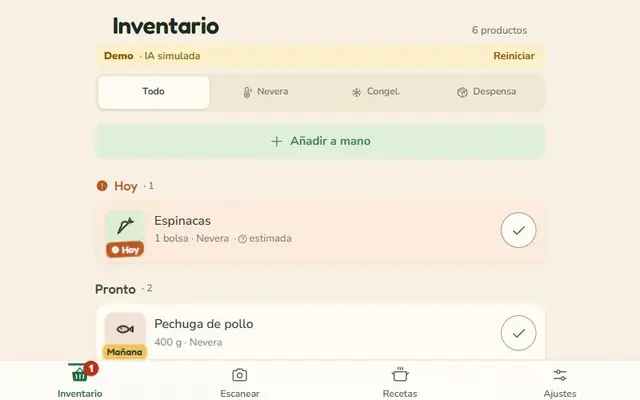
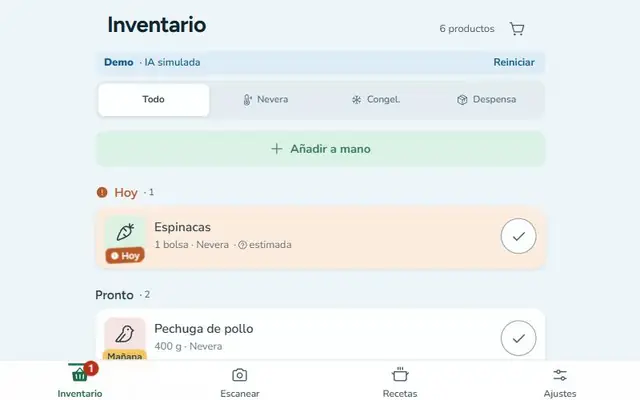
Actualiza Fresquito y Gestorín tras sus rediseños
Capturas nuevas de las demos (Fresquito 2.4.0 «Frescor», Gestorín 2.11.0),
descripciones al día y CHANGELOG 1.1.1.

diff --git a/site/index.html b/site/index.html
@@ -47,8 +47,8 @@
       </div></div>
       <div class="project-grid">
         <!-- tarjetas:inicio · generado por scripts/generar-tarjetas.mjs desde proyectos.json: no lo edites a mano -->
-        <article class="project-card" data-category="Día a día"><img src="img/proyectos/fresquito.webp" width="640" height="400" loading="lazy" alt="Captura de Fresquito: inventario de la nevera ordenado por lo que caduca antes"><div class="card-body"><span class="tag">Día a día</span><h3>Fresquito</h3><p class="tagline">Lo que hay en tu nevera, antes de que caduque.</p><p>Haz una foto a la nevera, la despensa o el ticket y la IA apunta qué tienes, te avisa de lo que caduca y te propone recetas a tu gusto (fitness, vegana, picante…). Web (PWA) y Android, con modelos de IA gratuitos por defecto.</p><ul class="stack" aria-label="Tecnologías"><li>React</li><li>TypeScript</li><li>PWA</li><li>Android (Capacitor)</li><li>IA</li></ul><div class="card-links"><a href="https://bertmarti.github.io/fresquito-demo/" target="_blank" rel="noopener noreferrer">Probar la demo <span aria-hidden="true">↗</span></a><span class="no-web">Código privado</span></div></div></article>
-        <article class="project-card" data-category="Día a día"><img src="img/proyectos/gestorin.webp" width="640" height="400" loading="lazy" alt="Captura de Gestorín: una multa explicada en lenguaje llano, con su plazo e importe"><div class="card-body"><span class="tag">Día a día</span><h3>Gestorín</h3><p class="tagline">Tu gestor de bolsillo.</p><p>Te explica cartas, multas y notificaciones en lenguaje llano, te avisa de los plazos y ordena tus papeles en Identidad, Vehículo, Hogar, Salud y Hacienda. Windows y Android, con IA local (Ollama) o modelos gratuitos.</p><ul class="stack" aria-label="Tecnologías"><li>Tauri</li><li>Rust</li><li>React</li><li>TypeScript</li><li>Ollama</li></ul><div class="card-links"><a href="https://bertmarti.github.io/gestorin-demo/" target="_blank" rel="noopener noreferrer">Probar la demo <span aria-hidden="true">↗</span></a><span class="no-web">Código privado</span></div></div></article>
+        <article class="project-card" data-category="Día a día"><img src="img/proyectos/fresquito.webp" width="640" height="400" loading="lazy" alt="Captura de Fresquito: inventario de la nevera ordenado por lo que caduca antes, en azul y verde"><div class="card-body"><span class="tag">Día a día</span><h3>Fresquito</h3><p class="tagline">Lo que hay en tu nevera, antes de que caduque.</p><p>Haz una foto a la nevera, la despensa o el ticket y la IA apunta qué tienes, te avisa de lo que caduca y te propone recetas según tus preferencias (fitness, vegana, picante…); lo que falta pasa a tu lista de la compra. Web (PWA) y Android, con modelos de IA gratuitos por defecto.</p><ul class="stack" aria-label="Tecnologías"><li>React</li><li>TypeScript</li><li>PWA</li><li>Android (Capacitor)</li><li>IA</li></ul><div class="card-links"><a href="https://bertmarti.github.io/fresquito-demo/" target="_blank" rel="noopener noreferrer">Probar la demo <span aria-hidden="true">↗</span></a><span class="no-web">Código privado</span></div></div></article>
+        <article class="project-card" data-category="Día a día"><img src="img/proyectos/gestorin.webp" width="640" height="400" loading="lazy" alt="Captura de Gestorín: inicio con los plazos que vencen pronto y los apartados de tus papeles"><div class="card-body"><span class="tag">Día a día</span><h3>Gestorín</h3><p class="tagline">Tu gestor de bolsillo.</p><p>Te explica cartas, multas y notificaciones en lenguaje llano, te avisa de los plazos (con calendario fiscal y widget en Android) y ordena tus papeles en Identidad, Vehículo, Hogar, Salud y Hacienda. Windows y Android, con IA local (Ollama), modelos gratuitos o sin IA.</p><ul class="stack" aria-label="Tecnologías"><li>Tauri</li><li>Rust</li><li>React</li><li>TypeScript</li><li>Ollama</li></ul><div class="card-links"><a href="https://bertmarti.github.io/gestorin-demo/" target="_blank" rel="noopener noreferrer">Probar la demo <span aria-hidden="true">↗</span></a><span class="no-web">Código privado</span></div></div></article>
         <article class="project-card" data-category="Casa"><img src="img/proyectos/aria.webp" width="640" height="400" loading="lazy" alt="Captura de ARIA, asistente de IA para el hogar"><div class="card-body"><span class="tag">Casa</span><h3>ARIA</h3><p class="tagline">Tu casa, con voz propia.</p><p>Asistente de IA autoalojado que gestiona las apps de tu casa: chat y voz, Telegram, rutinas y control parental. Gratis, en una Raspberry Pi o un PC.</p><ul class="stack" aria-label="Tecnologías"><li>Python</li><li>FastAPI</li><li>Ollama</li><li>Docker</li><li>Telegram</li></ul><div class="card-links"><a href="https://bertmarti.github.io/ARIA/" target="_blank" rel="noopener noreferrer">Abrir la web <span aria-hidden="true">↗</span></a><a href="https://github.com/BertMarti/ARIA" target="_blank" rel="noopener noreferrer">Ver el código <span aria-hidden="true">↗</span></a></div></div></article>
         <article class="project-card" data-category="Casa"><img src="img/proyectos/shield-dns.webp" width="640" height="400" loading="lazy" alt="Captura de SHIELD-DNS, bloqueador de anuncios para toda la casa"><div class="card-body"><span class="tag">Casa</span><h3>SHIELD-DNS</h3><p class="tagline">Adiós a los anuncios en toda la casa.</p><p>Bloquea anuncios y rastreadores en todos tus dispositivos a la vez (Pi-hole + Unbound con DNSSEC), con guía paso a paso.</p><ul class="stack" aria-label="Tecnologías"><li>Pi-hole</li><li>Unbound</li><li>DNSSEC</li><li>Docker</li></ul><div class="card-links"><a href="https://bertmarti.github.io/SHIELD-DNS/" target="_blank" rel="noopener noreferrer">Abrir la web <span aria-hidden="true">↗</span></a><a href="https://github.com/BertMarti/SHIELD-DNS" target="_blank" rel="noopener noreferrer">Ver el código <span aria-hidden="true">↗</span></a></div></div></article>
         <article class="project-card" data-category="Casa"><img src="img/proyectos/heimdall.webp" width="640" height="400" loading="lazy" alt="Captura de HEIMDALL, VPN para entrar en casa desde fuera"><div class="card-body"><span class="tag">Casa</span><h3>HEIMDALL</h3><p class="tagline">Tu casa, a mano desde cualquier sitio.</p><p>Tu propia VPN WireGuard para entrar en casa desde fuera de forma segura, con guía paso a paso.</p><ul class="stack" aria-label="Tecnologías"><li>WireGuard</li><li>wg-easy</li><li>Caddy</li><li>Docker</li></ul><div class="card-links"><a href="https://bertmarti.github.io/HEIMDALL/" target="_blank" rel="noopener noreferrer">Abrir la web <span aria-hidden="true">↗</span></a><a href="https://github.com/BertMarti/HEIMDALL" target="_blank" rel="noopener noreferrer">Ver el código <span aria-hidden="true">↗</span></a></div></div></article>
@@ -67,6 +67,6 @@
     <section class="commitling wrap" aria-labelledby="commitling-title"><div><p class="eyebrow">UN PROYECTO QUE CRECE</p><h2 id="commitling-title">Mi commitling</h2><p>Crece con mis commits y se actualiza cada día.</p><a class="text-link" href="https://bertmarti.github.io/commitling/" target="_blank" rel="noopener noreferrer">Conoce a la mascota <span aria-hidden="true">↗</span></a></div><a href="https://bertmarti.github.io/commitling/" target="_blank" rel="noopener noreferrer"><picture><source id="commitling-oscuro" srcset="https://raw.githubusercontent.com/BertMarti/BertMarti/main/commitling-dark.svg" media="(prefers-color-scheme: dark)"><img src="https://raw.githubusercontent.com/BertMarti/BertMarti/main/commitling.svg" width="480" height="200" loading="lazy" alt="Commitling, mascota pixel-art que crece con los commits"></picture></a></section>
     <section class="contact wrap" aria-labelledby="contact-title"><p class="eyebrow">HABLEMOS</p><h2 id="contact-title">Contacto</h2><p>Si quieres construir algo útil, puedes encontrarme aquí:</p><div class="contact-links"><a href="https://www.linkedin.com/in/alberto-martinez-moreno/" target="_blank" rel="noopener noreferrer">LinkedIn <span aria-hidden="true">↗</span></a><a href="https://github.com/BertMarti" target="_blank" rel="noopener noreferrer">GitHub <span aria-hidden="true">↗</span></a></div></section>
   </main>
-  <footer class="site-footer"><div class="wrap"><span>Hecho a mano, sin dependencias</span><span class="dot">·</span><a href="https://github.com/BertMarti/BertMarti" target="_blank" rel="noopener noreferrer">Código en GitHub</a><span class="dot">·</span><a href="https://github.com/BertMarti/BertMarti/releases/tag/v1.1.0" target="_blank" rel="noopener noreferrer">v1.1.0</a></div></footer>
+  <footer class="site-footer"><div class="wrap"><span>Hecho a mano, sin dependencias</span><span class="dot">·</span><a href="https://github.com/BertMarti/BertMarti" target="_blank" rel="noopener noreferrer">Código en GitHub</a><span class="dot">·</span><a href="https://github.com/BertMarti/BertMarti/releases/tag/v1.1.1" target="_blank" rel="noopener noreferrer">v1.1.1</a></div></footer>
 </body>
 </html>

diff --git a/README.md b/README.md
@@ -44,7 +44,7 @@ Arriba, lo más nuevo: dos apps con IA que ya puedes probar en su demo (de momen
     <td width="50%" valign="top">
       <a href="https://bertmarti.github.io/fresquito-demo/"><img src="./site/img/proyectos/fresquito.webp" alt="Demo de Fresquito" width="100%"></a>
       <h3>🥬 <a href="https://github.com/BertMarti/fresquito-demo">Fresquito</a></h3>
-      <p><strong>Lo que hay en tu nevera, antes de que caduque.</strong><br>Haz una foto a la nevera, la despensa o el ticket y la IA apunta qué tienes, te avisa de lo que caduca y te propone recetas a tu gusto (fitness, vegana, picante…). Web (PWA) y Android, con modelos de IA gratuitos por defecto.</p>
+      <p><strong>Lo que hay en tu nevera, antes de que caduque.</strong><br>Haz una foto a la nevera, la despensa o el ticket y la IA apunta qué tienes, te avisa de lo que caduca y te propone recetas según tus preferencias (fitness, vegana, picante…); lo que falta pasa a tu lista de la compra. Web (PWA) y Android, con modelos de IA gratuitos por defecto.</p>
       <p><sub>React · TypeScript · PWA · Android (Capacitor) · IA</sub></p>
       <a href="https://bertmarti.github.io/fresquito-demo/"><img src="https://img.shields.io/badge/DEMO-7C3AED?style=flat-square&logo=googlechrome&logoColor=white" alt="Demo de Fresquito"></a>
       <img src="https://img.shields.io/badge/C%C3%93DIGO%20PRIVADO-6B7280?style=flat-square&logo=github&logoColor=white" alt="Código privado">
@@ -52,7 +52,7 @@ Arriba, lo más nuevo: dos apps con IA que ya puedes probar en su demo (de momen
     <td width="50%" valign="top">
       <a href="https://bertmarti.github.io/gestorin-demo/"><img src="./site/img/proyectos/gestorin.webp" alt="Demo de Gestorín" width="100%"></a>
       <h3>🗂 <a href="https://github.com/BertMarti/gestorin-demo">Gestorín</a></h3>
-      <p><strong>Tu gestor de bolsillo.</strong><br>Te explica cartas, multas y notificaciones en lenguaje llano, te avisa de los plazos y ordena tus papeles en Identidad, Vehículo, Hogar, Salud y Hacienda. Windows y Android, con IA local (Ollama) o modelos gratuitos.</p>
+      <p><strong>Tu gestor de bolsillo.</strong><br>Te explica cartas, multas y notificaciones en lenguaje llano, te avisa de los plazos (con calendario fiscal y widget en Android) y ordena tus papeles en Identidad, Vehículo, Hogar, Salud y Hacienda. Windows y Android, con IA local (Ollama), modelos gratuitos o sin IA.</p>
       <p><sub>Tauri · Rust · React · TypeScript · Ollama</sub></p>
       <a href="https://bertmarti.github.io/gestorin-demo/"><img src="https://img.shields.io/badge/DEMO-7C3AED?style=flat-square&logo=googlechrome&logoColor=white" alt="Demo de Gestorín"></a>
       <img src="https://img.shields.io/badge/C%C3%93DIGO%20PRIVADO-6B7280?style=flat-square&logo=github&logoColor=white" alt="Código privado">

diff --git a/CHANGELOG.md b/CHANGELOG.md
@@ -3,6 +3,13 @@
 Todas las versiones del perfil y del portafolio (https://bertmarti.github.io/BertMarti/).
 El formato sigue [Keep a Changelog](https://keepachangelog.com/es-ES/1.1.0/) y las versiones, [SemVer](https://semver.org/lang/es/).
 
+## [1.1.1] - 2026-11-10
+
+### Cambiado
+- **Fresquito** (v2.4.0): captura nueva con la estética «Frescor» en azul y verde; la descripción cuenta las recetas según tus preferencias y que lo que falta pasa a la lista de la compra (exportación a Pricely). Su demo saca 99/100 en Lighthouse.
+- **Gestorín** (v2.11.0): captura nueva con el diseño serio y elegante (inicio con los plazos y los apartados Identidad, Vehículo, Hogar, Salud y Hacienda); la descripción suma el modo sin IA, el calendario fiscal y el widget de Android.
+- Versión del pie del portafolio: v1.1.1.
+
 ## [1.1.0] - 2026-11-10
 
 ### Añadido
@@ -27,5 +34,6 @@ Primera versión estable del perfil de GitHub y del portafolio.
 - **Avisos automáticos**: el CI comprueba cada semana que ningún repo público falte en el perfil.
 - **Imagen social** (`og:image`) para que el enlace se vea bien al compartirlo.
 
+[1.1.1]: https://github.com/BertMarti/BertMarti/releases/tag/v1.1.1
 [1.1.0]: https://github.com/BertMarti/BertMarti/releases/tag/v1.1.0
 [1.0.0]: https://github.com/BertMarti/BertMarti/releases/tag/v1.0.0

diff --git a/PLAN.md b/PLAN.md
@@ -25,7 +25,7 @@
 - [x] Fresquito y Gestorín (código privado, demos públicas) en una sección nueva «Recién salidas», con `"privado": true`.
 
 ## Siguiente
-- [ ] Cuando terminen los rediseños de Fresquito (azules y verdes) y Gestorín, rehacer `fresquito.webp` y `gestorin.webp`.
+- [x] Capturas nuevas de Fresquito (v2.4.0, «Frescor») y Gestorín (v2.11.0) tras sus rediseños (v1.1.1).
 - [ ] Revisar cada pocos meses que las descripciones de `proyectos.json` siguen igual que en cada repo
       (`gh repo view BertMarti/<Repo> --json description`).
 - [ ] Si la vigilancia de CSP avisa de alguna web, corregirla en su repo.
